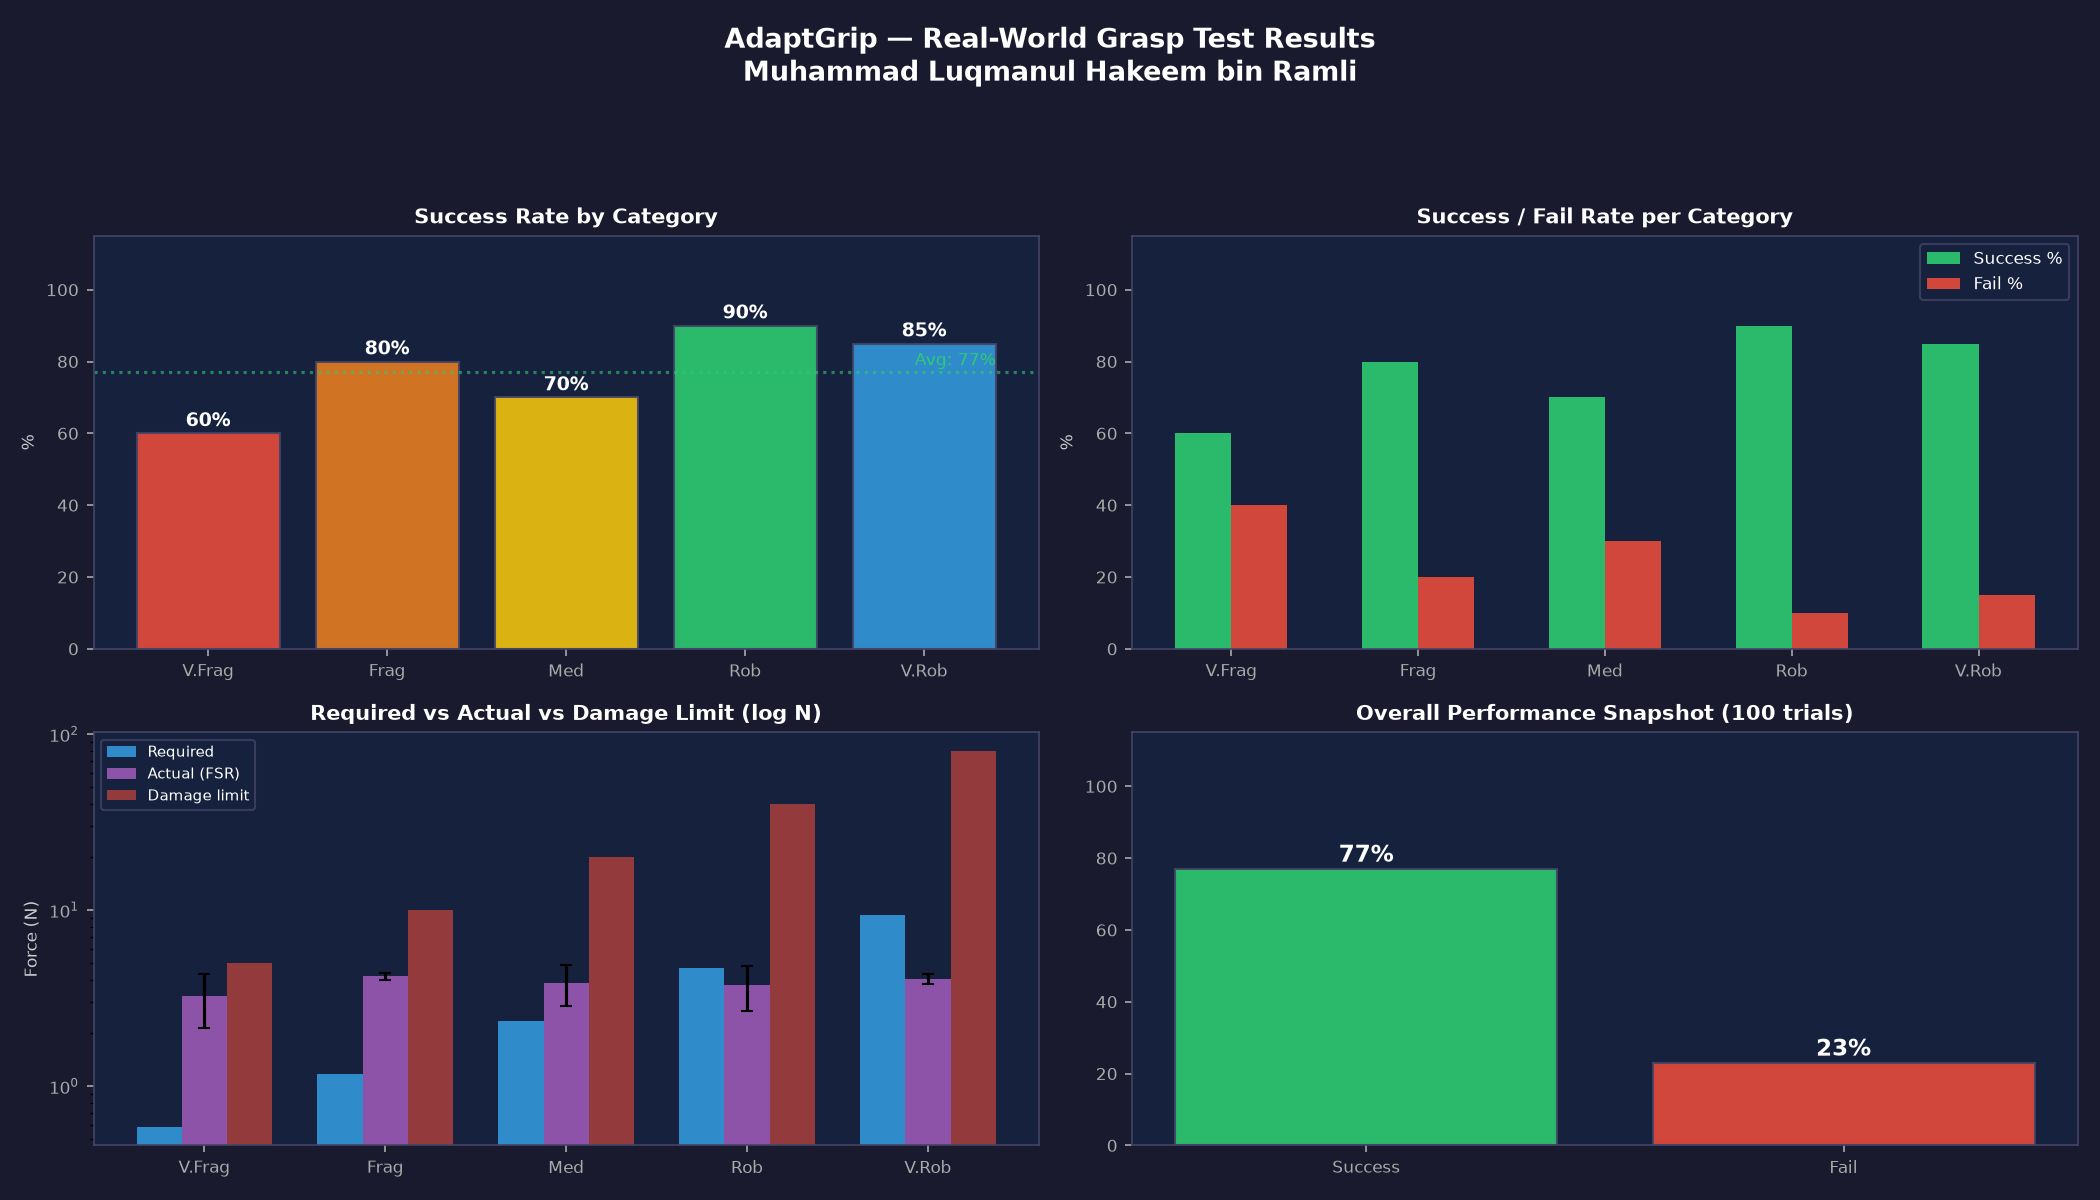
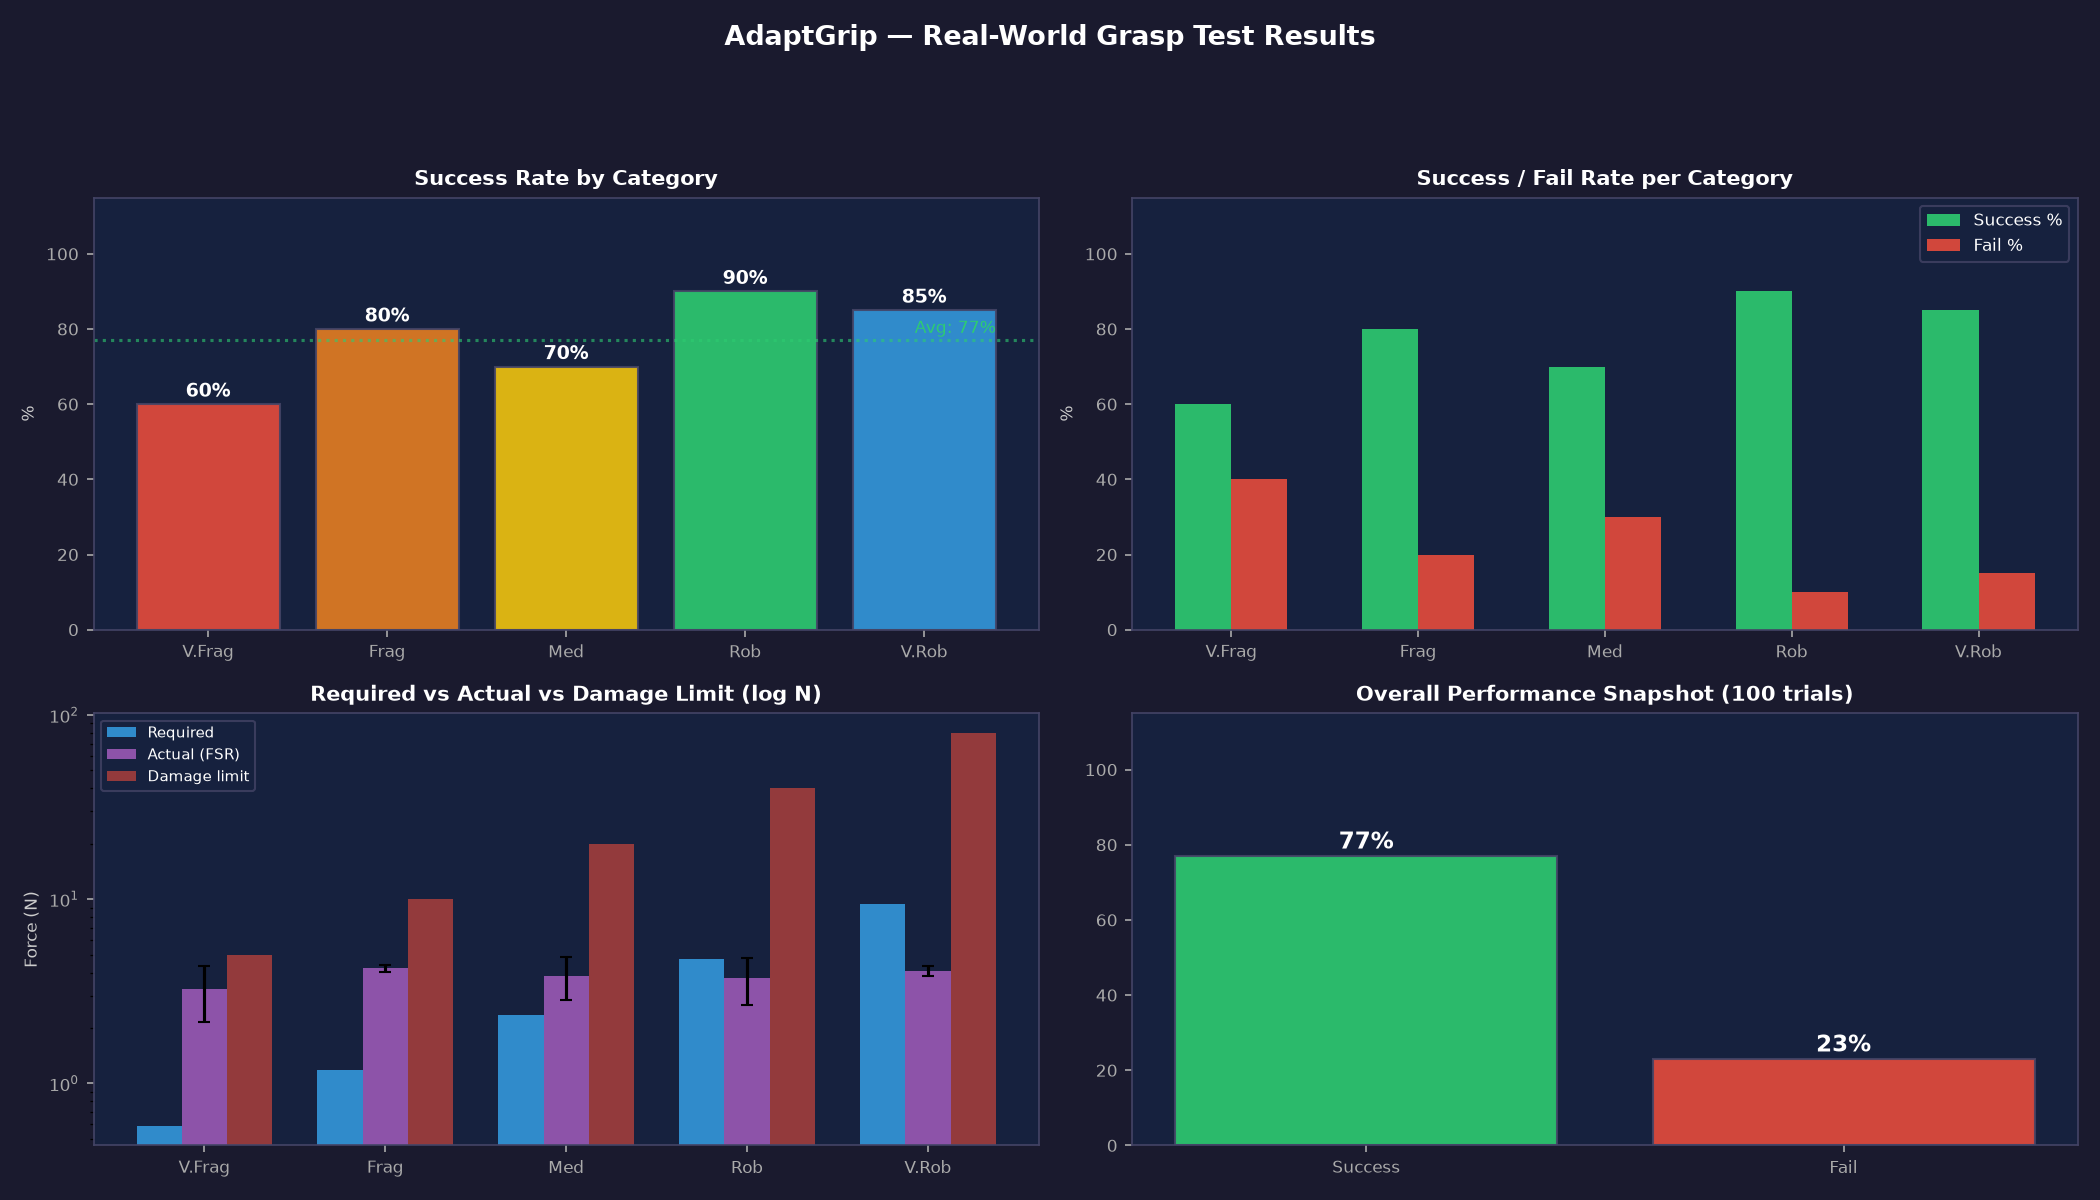
Remove name from dashboard title

diff --git a/plot_dashboard.py b/plot_dashboard.py
@@ -50,8 +50,7 @@ x = np.arange(5)
 
 fig = plt.figure(figsize=(14, 8))
 fig.patch.set_facecolor('#1a1a2e')
-fig.suptitle('AdaptGrip — Real-World Grasp Test Results\n'
-             'Muhammad Luqmanul Hakeem bin Ramli',
+fig.suptitle('AdaptGrip — Real-World Grasp Test Results',
              color='white', fontsize=13, fontweight='bold')
 
 # ── Panel 1: Success rate per category ──────────────────────
